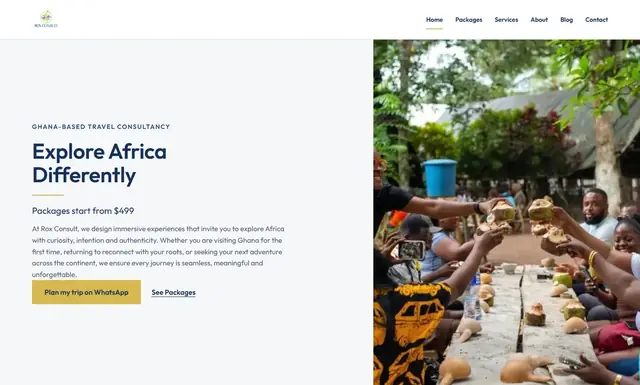
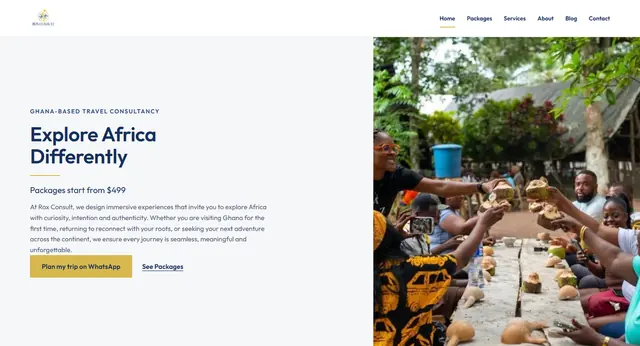
Rox desktop frame from her 1536x864 view (face of the woman in black shows, as on her own laptop view); frame aspect 1200/648; offer page film change reverted (out of scope)

diff --git a/labs.html b/labs.html
@@ -440,7 +440,7 @@ h1 em { font-weight: 500; font-style: italic; color: var(--accent); letter-spaci
 .pic .shot { box-shadow: inset 0 1px 0 rgba(255,255,255,0.14), 0 40px 70px -28px rgba(0,0,0,0.75), 0 16px 30px -16px rgba(0,0,0,0.55); }
 .pic .browser { left: 15%; top: 13%; width: 78%; aspect-ratio: auto; transform: perspective(1800px) rotateY(-6deg) rotateX(2deg); }
 .pic .browser .view { height: auto; }
-.pic .browser .view img { height: auto; aspect-ratio: 1200 / 722; }
+.pic .browser .view img { height: auto; aspect-ratio: 1200 / 648; }
 .pic .phone { left: 3.5%; bottom: -7%; width: 17.5%; border-width: 4px; border-radius: 16px; }
 .pic .poster { position: absolute; left: 50%; top: 7%; width: 47%; transform: translateX(-50%) rotate(-2.5deg); border-radius: 10px; overflow: hidden; border: 1px solid rgba(255,255,255,0.4);
   box-shadow: 0 40px 70px -26px rgba(0,0,0,0.8), 0 14px 26px -14px rgba(0,0,0,0.55); }
@@ -466,7 +466,7 @@ h1 em { font-weight: 500; font-style: italic; color: var(--accent); letter-spaci
 .footcta { display: grid; grid-template-columns: minmax(0, 1fr); justify-items: center; gap: 18px; text-align: center; }
 .stage.bleed .browser { left: 17%; top: 8%; width: 105%; aspect-ratio: auto; transform: perspective(2400px) rotateY(-8deg) rotateX(3deg); transform-origin: 0 50%; }
 .stage.bleed .browser .view { height: auto; }
-.stage.bleed .browser .view img { height: auto; aspect-ratio: 1200 / 722; }
+.stage.bleed .browser .view img { height: auto; aspect-ratio: 1200 / 648; }
 .stage.bleed .phone { left: -10%; bottom: -7%; width: clamp(140px, 10.8vw, 156px); }
 .pic img.fill { position: absolute; inset: 0; width: 100%; height: 100%; object-fit: cover; }
 @media (max-width: 900px) {
@@ -522,7 +522,7 @@ h1 em { font-weight: 500; font-style: italic; color: var(--accent); letter-spaci
     <div class="stage bleed" aria-hidden="true">
       <figure class="shot browser">
         <div class="chrome"><b></b><b></b><b></b></div>
-        <div class="view"><img src="/assets/img/work-rox-desk.webp" srcset="/assets/img/work-rox-desk-640.webp 640w, /assets/img/work-rox-desk.webp 1200w" sizes="(max-width: 900px) 80vw, 1200px" width="1200" height="722" alt="" fetchpriority="high"></div>
+        <div class="view"><img src="/assets/img/work-rox-desk.webp" srcset="/assets/img/work-rox-desk-640.webp 640w, /assets/img/work-rox-desk.webp 1200w" sizes="(max-width: 900px) 80vw, 1200px" width="1200" height="648" alt="" fetchpriority="high"></div>
       </figure>
       <figure class="shot phone"><img src="/assets/img/work-rox-mob.webp" width="448" height="908" alt=""></figure>
     </div>

diff --git a/index.html b/index.html
@@ -389,7 +389,7 @@ h1 em { font-weight: 500; font-style: italic; color: var(--accent); letter-spaci
 .pic .shot { box-shadow: inset 0 1px 0 rgba(255,255,255,0.14), 0 40px 70px -28px rgba(0,0,0,0.75), 0 16px 30px -16px rgba(0,0,0,0.55); }
 .pic .browser { left: 15%; top: 13%; width: 78%; aspect-ratio: auto; transform: perspective(1800px) rotateY(-6deg) rotateX(2deg); }
 .pic .browser .view { height: auto; }
-.pic .browser .view img { height: auto; aspect-ratio: 1200 / 722; }
+.pic .browser .view img { height: auto; aspect-ratio: 1200 / 648; }
 .pic .phone { left: 3.5%; bottom: -7%; width: 17.5%; border-width: 4px; border-radius: 16px; }
 .pic .poster { position: absolute; left: 50%; top: 7%; width: 47%; transform: translateX(-50%) rotate(-2.5deg); border-radius: 10px; overflow: hidden; border: 1px solid rgba(255,255,255,0.4);
   box-shadow: 0 40px 70px -26px rgba(0,0,0,0.8), 0 14px 26px -14px rgba(0,0,0,0.55); }
@@ -415,7 +415,7 @@ h1 em { font-weight: 500; font-style: italic; color: var(--accent); letter-spaci
 .footcta { display: grid; grid-template-columns: minmax(0, 1fr); justify-items: center; gap: 18px; text-align: center; }
 .stage.bleed .browser { left: 17%; top: 8%; width: 105%; aspect-ratio: auto; transform: perspective(2400px) rotateY(-8deg) rotateX(3deg); transform-origin: 0 50%; }
 .stage.bleed .browser .view { height: auto; }
-.stage.bleed .browser .view img { height: auto; aspect-ratio: 1200 / 722; }
+.stage.bleed .browser .view img { height: auto; aspect-ratio: 1200 / 648; }
 .stage.bleed .phone { left: -10%; bottom: -7%; width: clamp(140px, 10.8vw, 156px); }
 .pic img.fill { position: absolute; inset: 0; width: 100%; height: 100%; object-fit: cover; }
 @media (max-width: 900px) {
@@ -480,7 +480,7 @@ h1 em { font-weight: 500; font-style: italic; color: var(--accent); letter-spaci
       <div class="res">
         <article class="panel">
           <div class="pic" aria-hidden="true">
-            <figure class="shot browser"><div class="chrome"><b></b><b></b><b></b></div><div class="view"><img src="/assets/img/work-rox-desk.webp" width="1200" height="722" alt="" loading="lazy"></div></figure>
+            <figure class="shot browser"><div class="chrome"><b></b><b></b><b></b></div><div class="view"><img src="/assets/img/work-rox-desk.webp" width="1200" height="648" alt="" loading="lazy"></div></figure>
             <figure class="shot phone"><img src="/assets/img/work-rox-mob.webp" width="448" height="908" alt="" loading="lazy"></figure>
           </div>
           <h3>See your new website before you pay for it.</h3>

diff --git a/autonomous-mode/index.html b/autonomous-mode/index.html
@@ -87,7 +87,7 @@ p { max-width: 62ch; }
 .hero { display: grid; grid-template-columns: 1.15fr 0.85fr; gap: clamp(32px, 6vw, 88px); align-items: center; padding-block: clamp(32px, 6vw, 72px) clamp(72px, 10vw, 128px); }
 .hero-copy { display: flex; flex-direction: column; gap: 28px; }
 .hero-cta { margin-top: 8px; }
-.film { position: relative; border-radius: 22px; overflow: hidden; background: var(--surface); box-shadow: 0 1px 2px rgba(13,37,27,0.06), 0 30px 70px -20px rgba(13,37,27,0.25); aspect-ratio: 4 / 5; align-self: start; }
+.film { position: relative; border-radius: 22px; overflow: hidden; background: var(--surface); box-shadow: 0 1px 2px rgba(13,37,27,0.06), 0 30px 70px -20px rgba(13,37,27,0.25); aspect-ratio: 4 / 5; }
 .film video { width: 100%; height: 100%; object-fit: cover; }
 .film figcaption { position: absolute; left: 0; right: 0; bottom: 0; padding: 14px 18px; font-size: 0.8rem; color: var(--muted); background: linear-gradient(rgba(247,243,234,0), rgba(247,243,234,0.92) 40%); }
 
